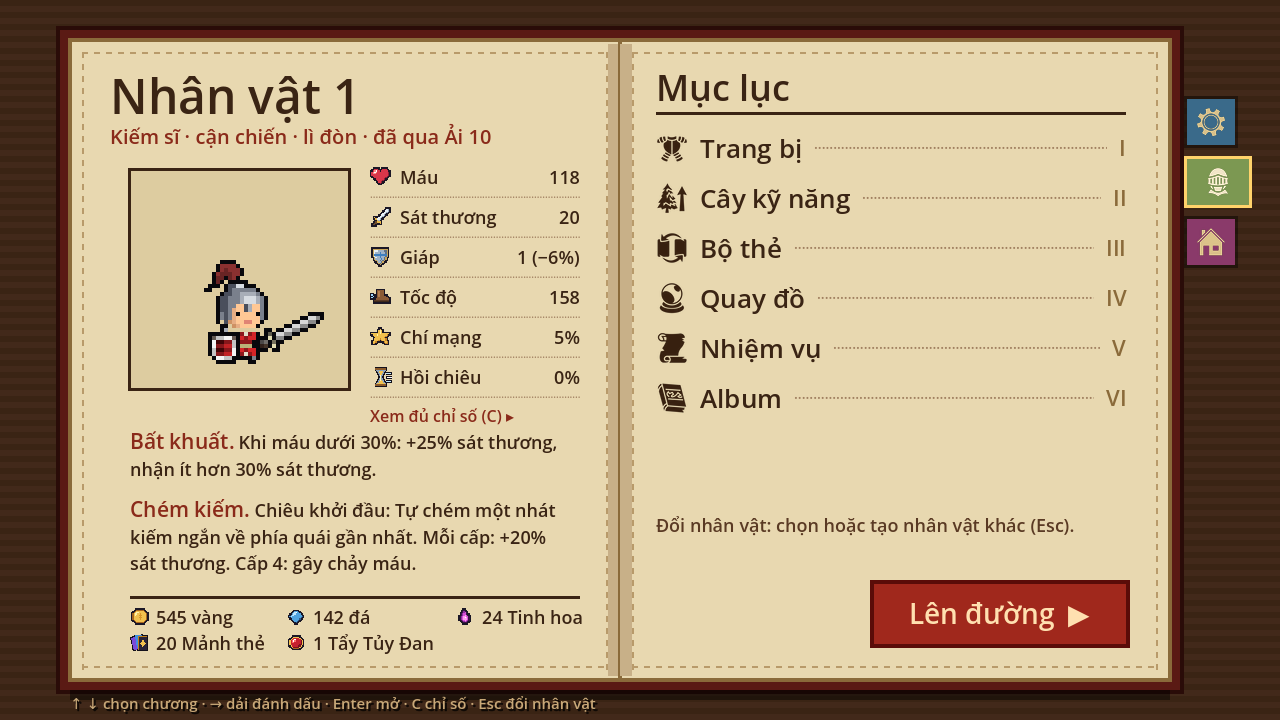
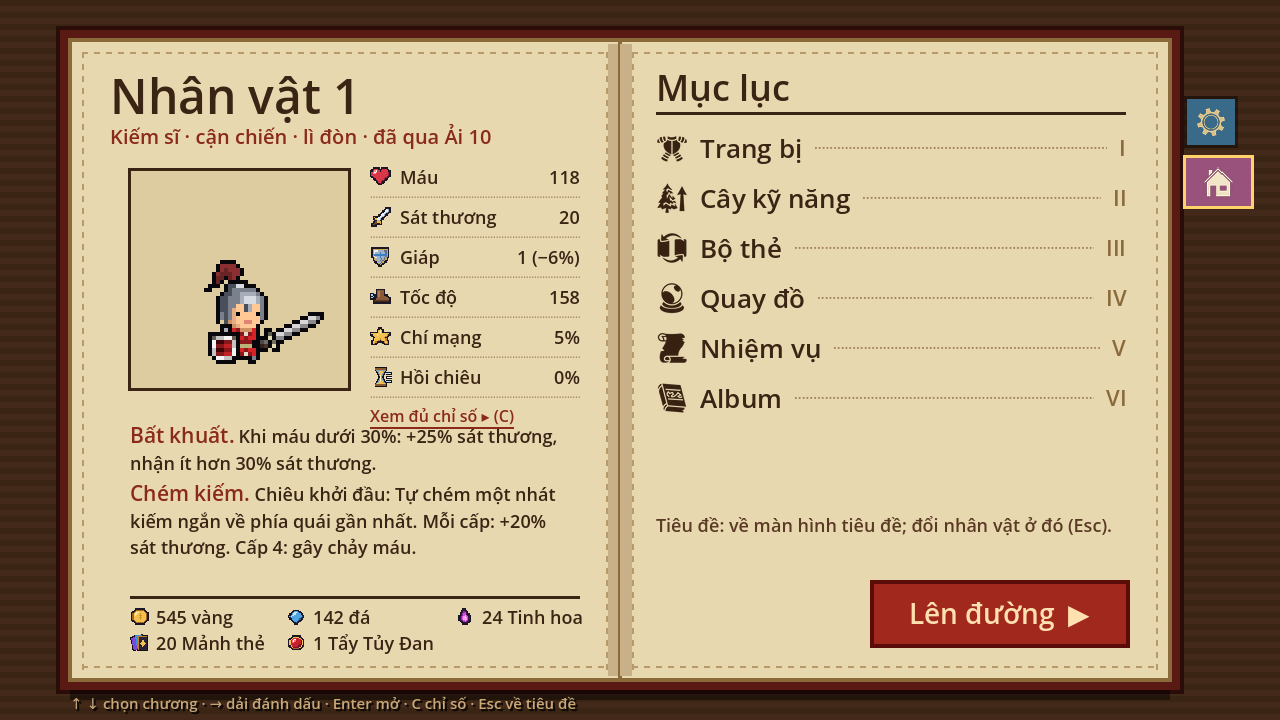
feat(ui): lobby back to title, clickable key-only actions
User: drop "Đổi nhân vật" from the lobby (changing character goes back
to the title), and "Xem đủ chỉ số (C)" only worked with the key.
- Lobby: the Đổi nhân vật ribbon is gone; Esc and the Tiêu đề ribbon go
  to the title. "Xem đủ chỉ số ▸ (C)" and "◂ Về Mục lục (C)" are links.
- Audit of every key shortcut: gacha history (H) had no element, now a
  "Lịch sử ▸ (H)" link; the "Không hỏi lại (Space)" tick takes a click.
  Q/E, Z/C, R, T, D, O already had ribbons, tabs or links.

Verified: gamekit test: 521 passed, 0 failed; ui-shots 01-lobby,
01a-lobby-stats, 01a2-lobby-ribbon, 01k-gacha, 01k2-gacha-history,
10-ask-reset viewed, zoomed x2 (evidence/mouse-links)
Design: design/ux/front-end.md

diff --git a/design/ux/front-end.md b/design/ux/front-end.md
@@ -66,7 +66,7 @@ Thiết kế lại 2026-11-26: người dùng xem 3 hướng trong Design Lab (`
   đỏ, túi đủ 5 nguyên liệu ở chân trang (vàng, đá, Tinh hoa, Mảnh thẻ, Tẩy Tủy Đan).
 - C: trang phải thành **Phụ lục: chỉ số** (11 chỉ số, cột Gốc / Trang bị / Cây / Tổng, tính từ PlayerStats.breakdown
   của trang bị + cây kỹ năng; chí mạng cộng nền run_config).
-- Ba dải đánh dấu (icon) ở mép sổ: Cài đặt, Đổi nhân vật, Tiêu đề; → sang dải, ↑ ↓ giữa dải, ← về Mục lục.
+- Hai dải đánh dấu (icon) ở mép sổ: Cài đặt, Tiêu đề (bỏ Đổi nhân vật, người dùng 2026-11-28: đổi nhân vật thì về Tiêu đề; Esc cũng về Tiêu đề); → sang dải, ↑ ↓ giữa dải, ← về Mục lục.
 - Trang phải: **Mục lục** (Trang bị, Cây kỹ năng, Bộ thẻ, Quay đồ, Nhiệm vụ, Album; số trang La Mã, dòng chấm dẫn), dòng mô tả chương đang chọn (mục chưa mở ghi "Qua ải N"), con dấu sáp
   **Lên đường ▶** (mục chính, focus sẵn, mở màn chọn ải).
 - ↑/↓ đi vòng qua các chương và con dấu, Enter mở, Esc đổi nhân vật.
